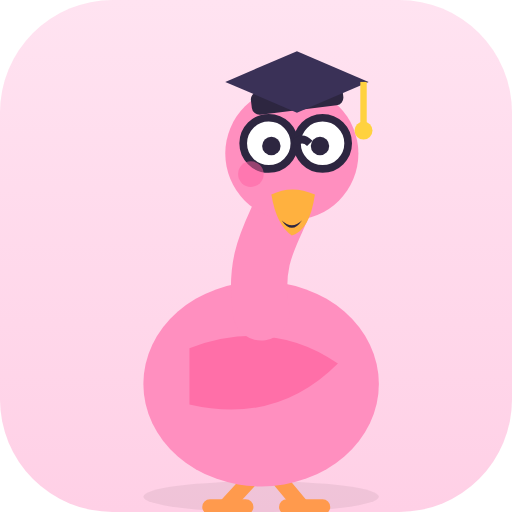
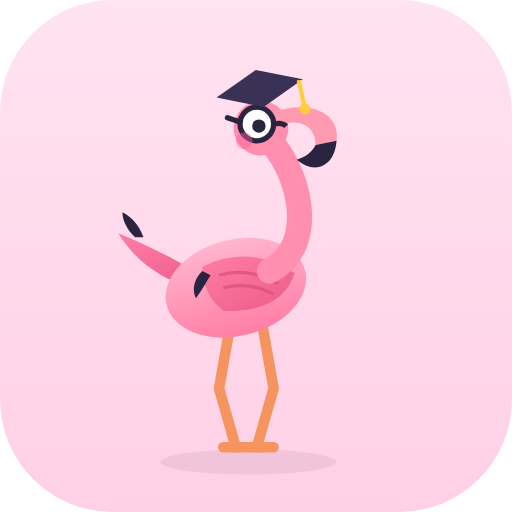
Redesign Flamingo mascot: elegant slender flamingo teacher
Replace the round 'blob' flamingo with a graceful flamingo: long S-curve
neck, long slender legs, tail feathers, gradient body with wing-feather
detail, and the iconic hooked black-tipped beak. Keeps the teacher look
(round glasses + graduation cap). Regenerated matching app icons.

Changed region(s): [[0.2188, 0.0938, 0.75, 1.0]]

diff --git a/index.html b/index.html
@@ -26,48 +26,55 @@
   </div>
 
   <!-- Flamingo Flamingo, the teacher mascot (shared across screens) -->
-  <svg class="flamingo bounce" viewBox="0 0 200 210" aria-hidden="true">
-    <!-- ground shadow -->
-    <ellipse cx="100" cy="200" rx="58" ry="8" fill="rgba(0,0,0,.08)"/>
-    <!-- long flamingo legs with backward knees -->
-    <g stroke="#ff9a4d" stroke-width="6" stroke-linecap="round" fill="none">
-      <path d="M88 168 L96 182 L84 198"/>
-      <path d="M114 168 L108 182 L120 198"/>
-      <path d="M76 198 h16 M112 198 h16" stroke-width="6"/>
+  <svg class="flamingo bounce" viewBox="0 0 150 210" aria-hidden="true">
+    <defs>
+      <linearGradient id="body" x1="0" y1="0" x2="0" y2="1">
+        <stop offset="0" stop-color="#ffb6cf"/><stop offset="1" stop-color="#ff7ea6"/>
+      </linearGradient>
+      <linearGradient id="wing" x1="0" y1="0" x2="1" y2="1">
+        <stop offset="0" stop-color="#ff7ea6"/><stop offset="1" stop-color="#ec5a89"/>
+      </linearGradient>
+    </defs>
+    <ellipse cx="72" cy="203" rx="42" ry="6" fill="rgba(0,0,0,.08)"/>
+    <!-- long elegant legs -->
+    <g stroke="#f5945f" stroke-width="5" stroke-linecap="round" fill="none">
+      <path d="M78 134 L84 168 L76 196"/>
+      <path d="M64 134 L58 168 L66 196"/>
+      <path d="M70 196 h14 M60 196 h14"/>
     </g>
-    <!-- body -->
-    <ellipse cx="100" cy="140" rx="50" ry="44" fill="#ff8fbf"/>
-    <!-- folded wing -->
-    <path d="M70 124 Q104 112 132 132 Q108 160 70 150 Z" fill="#ff6fa8"/>
-    <!-- raised wing holding the pointer -->
-    <path d="M138 132 Q160 118 168 96 Q150 104 138 120 Z" fill="#ff6fa8"/>
-    <!-- teacher's pointer -->
-    <line x1="158" y1="108" x2="186" y2="70" stroke="#a9744f" stroke-width="4" stroke-linecap="round"/>
-    <circle cx="187" cy="68" r="5" fill="#ffd23f"/>
-    <!-- neck -->
-    <path d="M100 110 C 96 84, 108 74, 112 58" fill="none" stroke="#ff8fbf"
-          stroke-width="22" stroke-linecap="round"/>
+    <!-- tail feathers -->
+    <path d="M46 120 C28 116 16 104 10 94 C24 100 42 108 54 118 Z" fill="url(#wing)"/>
+    <path d="M18 96 C14 92 12 88 12 84 C16 86 20 90 22 96 Z" fill="#2b2440"/>
+    <!-- slender body -->
+    <ellipse cx="66" cy="120" rx="34" ry="23" transform="rotate(-14 66 120)" fill="url(#body)"/>
+    <!-- folded wing with feather detail -->
+    <path d="M50 110 Q72 99 94 113 Q88 132 60 131 Q50 123 50 110 Z" fill="url(#wing)"/>
+    <g stroke="#d94d7d" stroke-width="1.5" fill="none" opacity=".7">
+      <path d="M58 114 Q72 110 86 118"/>
+      <path d="M60 120 Q73 117 84 123"/>
+    </g>
+    <path d="M50 112 C46 116 45 121 47 125 C50 121 52 117 54 114 Z" fill="#2b2440"/>
+    <!-- long S-curve neck -->
+    <path d="M82 112 C106 100 96 62 80 48" fill="none" stroke="#ff8fae"
+          stroke-width="12" stroke-linecap="round"/>
     <!-- head -->
-    <circle cx="112" cy="48" r="26" fill="#ff8fbf"/>
-    <!-- hooked flamingo beak -->
-    <path d="M104 64 Q112 60 121 64 Q119 78 112 80 Q106 76 104 64 Z" fill="#ffb13f"/>
-    <path d="M108 74 Q112 80 116 74 Q112 78 108 74 Z" fill="#2d2640"/>
-    <!-- round teacher glasses + eyes -->
-    <g stroke="#2d2640" stroke-width="3" fill="#fff">
-      <circle cx="103" cy="44" r="10"/>
-      <circle cx="124" cy="44" r="10"/>
+    <circle cx="78" cy="44" r="13" fill="#ff8fae"/>
+    <!-- iconic hooked beak with black tip -->
+    <path d="M85 36 C103 30 116 38 114 50 L104 52 C104 42 95 39 85 43 Z" fill="#ff9bb0"/>
+    <path d="M114 50 C113 63 103 66 95 59 C102 57 104 52 104 52 Z" fill="#2b2440"/>
+    <!-- teacher glasses + eye -->
+    <g stroke="#2b2440" stroke-width="2.5" fill="#fff"><circle cx="76" cy="42" r="8"/></g>
+    <circle cx="77" cy="43" r="3.2" fill="#2b2440"/>
+    <path d="M84 42 q4 -1 6 1" stroke="#2b2440" stroke-width="2.5" fill="none"/>
+    <path d="M68 41 L62 39" stroke="#2b2440" stroke-width="2.5" fill="none" stroke-linecap="round"/>
+    <!-- graduation cap -->
+    <g transform="rotate(-12 78 28)">
+      <rect x="66" y="22" width="24" height="6" rx="2" fill="#2b2440"/>
+      <polygon points="78,16 99,25 78,34 57,25" fill="#3a3157"/>
+      <path d="M97 25 V37" stroke="#ffce3a" stroke-width="2"/>
+      <circle cx="97" cy="39" r="2.6" fill="#ffce3a"/>
     </g>
-    <path d="M113 44 q3 -3 6 0" stroke="#2d2640" stroke-width="3" fill="none"/>
-    <circle cx="104" cy="45" r="3.6" fill="#2d2640"/>
-    <circle cx="123" cy="45" r="3.6" fill="#2d2640"/>
-    <!-- graduation cap (mortarboard) with tassel -->
-    <rect x="96" y="22" width="36" height="9" rx="3" fill="#2d2640"
-          transform="rotate(-7 114 26)"/>
-    <polygon points="114,8 142,20 114,32 86,20" fill="#3a3157"/>
-    <path d="M140 20 V36" stroke="#ffd23f" stroke-width="2.5"/>
-    <circle cx="140" cy="39" r="3.5" fill="#ffd23f"/>
-    <!-- rosy cheek -->
-    <circle cx="96" cy="56" r="5" fill="#ff5fa2" opacity=".5"/>
+    <circle cx="70" cy="50" r="4" fill="#ff5fa2" opacity=".45"/>
   </svg>
   <div class="speech-bubble" id="bubble">Hi Riley!</div>
 

diff --git a/css/styles.css b/css/styles.css
@@ -56,8 +56,8 @@ h1 { font-size: 2rem; color: var(--pink-deep); }
 
 /* ---- Flamingo mascot ----------------------------------------------------*/
 .flamingo {
-  width: 130px; height: 130px; margin: 0 auto; display: block;
-  filter: drop-shadow(0 6px 0 rgba(0,0,0,.1));
+  width: 120px; height: 168px; margin: 0 auto; display: block;
+  filter: drop-shadow(0 6px 0 rgba(0,0,0,.08));
 }
 .flamingo.bounce { animation: bob 1.6s ease-in-out infinite; }
 @keyframes bob { 0%,100%{transform:translateY(0)} 50%{transform:translateY(-10px)} }

diff --git a/README.md b/README.md
@@ -116,7 +116,7 @@ icons/              App icons
 ```
 
 ## 🛣️ Ideas for next versions
-- Long flamingo legs on the mascot + animated reactions.
+- Animated mascot reactions (Flamingo cheering, pointing, blinking).
 - Parent dashboard: see which letters Riley has mastered.
 - Digraphs (sh/ch/th), long vowels, and first decodable sentences.
 - Native iOS build for guaranteed **offline on-device** speech.